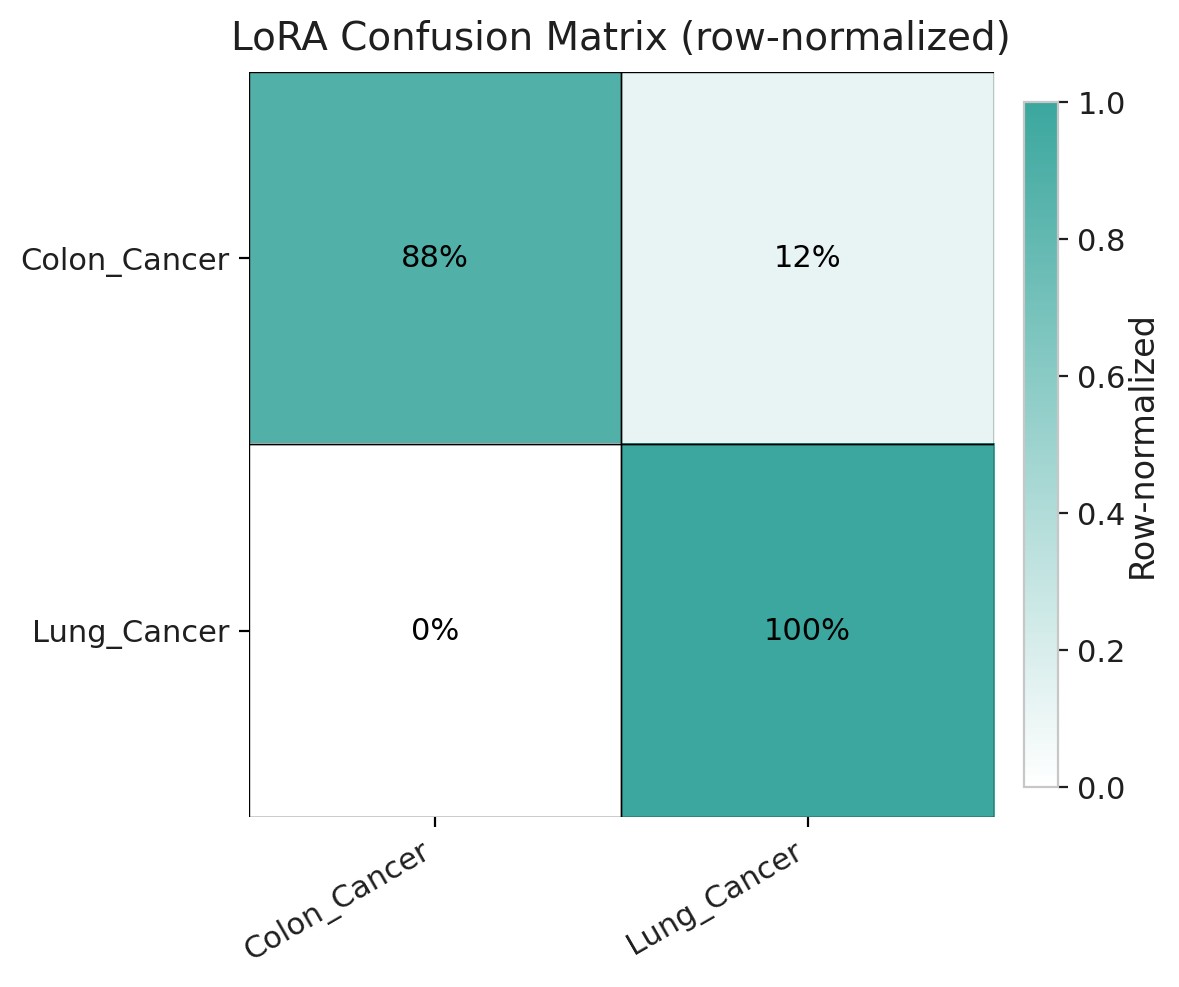
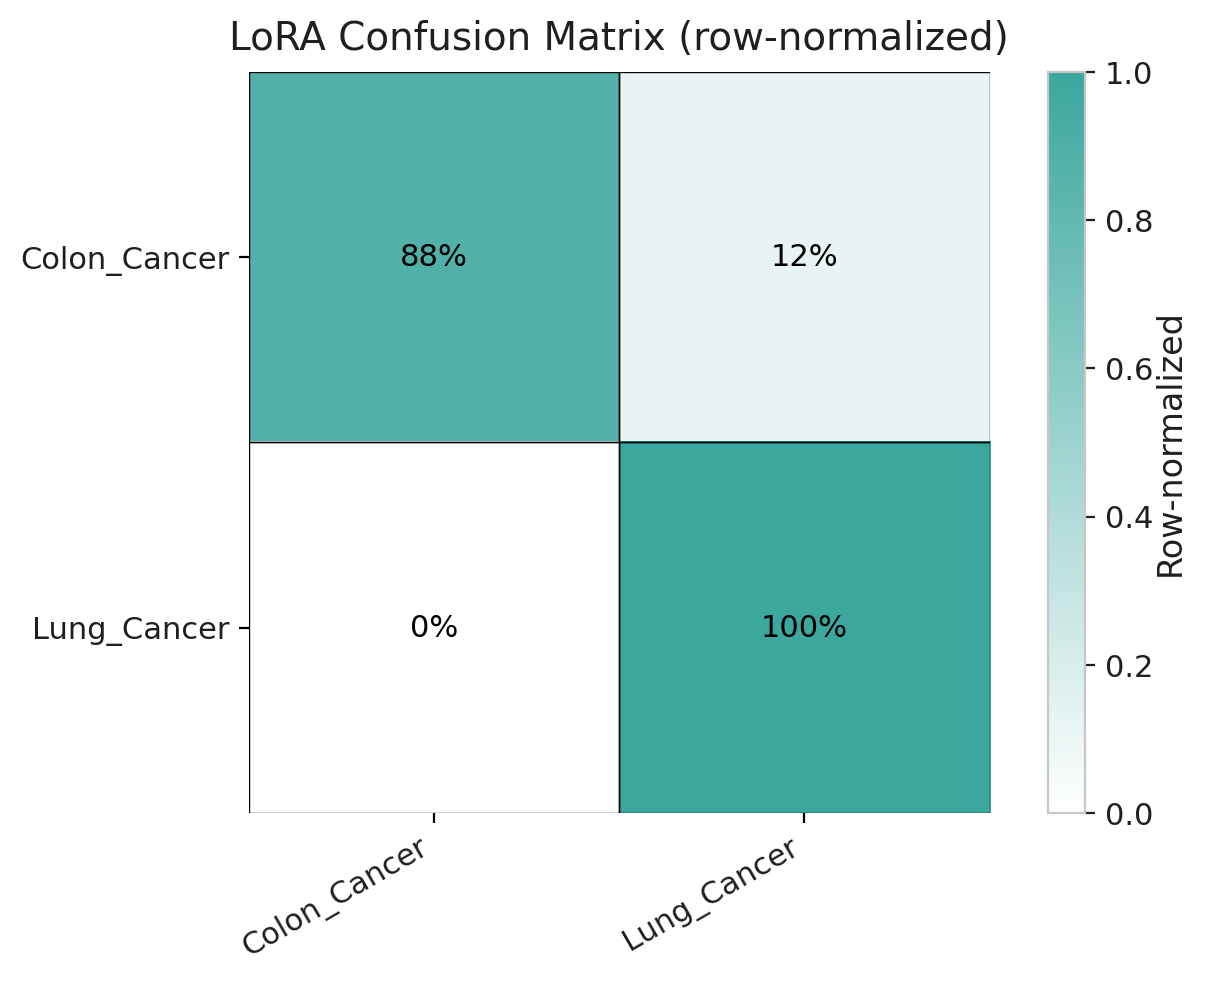
update

diff --git a/app/plot_results.py b/app/plot_results.py
@@ -112,7 +112,7 @@ def plot_confusion(conf_csv: Path, labels: list[str], out_png: Path):
     cm = pd.read_csv(conf_csv, index_col=0).values
     n = len(labels)
 
-    fig, ax = plt.subplots(figsize=(5.8, 5.2))
+    fig, ax = plt.subplots(figsize=(8.4, 4.8))
 
     # Use single-hue cmap matching your teal
     cmap = _single_hue_cmap(PALETTE["macro_f1"])
